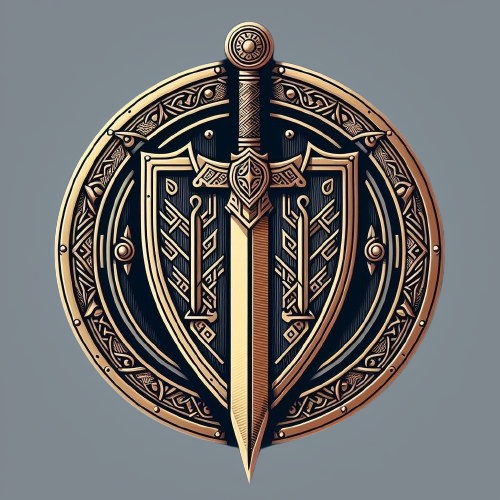
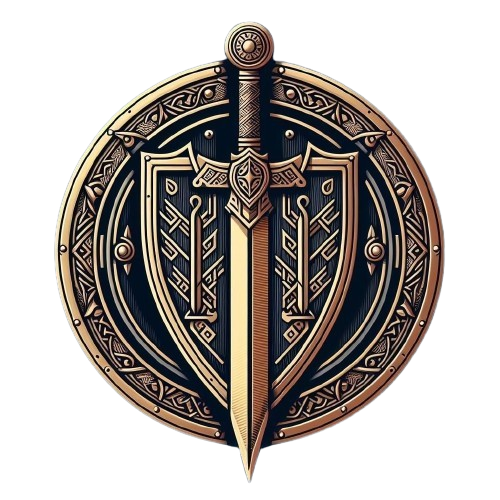
Deploy v0.11.8 Nations updated (links added)

diff --git a/app/nations/page.tsx b/app/nations/page.tsx
@@ -32,42 +32,42 @@ const nations: Nation[] = [
     slug: "alakasham", name: "Alakasham", type: "Sultanat", population: "55 000 habitants",
     description: "Ce royaume a été bâti sur l'ancien désert de Saltir. Connu pour ses chevaux, ce peuple de mercenaires a connu plusieurs revirements politiques au sein de la famille dirigeante. L'actuelle sultane est la fille illégitime du fondateur. Elle purgea le royaume du système patriarcal que son défunt père et demi-frère avaient mis en place. Aujourd'hui, tout y tourne autour de l'argent et du commerce équestre.",
     character: "Commercial · Matriarcal · Aride", accent: "#FFB84A", glow: "rgba(255,184,74,0.12)",
-    nationHref: "#", leaderHref: "#", status: "active",
+    nationHref: "https://sites.google.com/view/alakasham/", leaderHref: "https://docs.google.com/document/d/19HrZMEEb9E153YB_SI8WC19095Sqrl0yxAMVS0oNYFM/edit?usp=sharing", status: "active",
     army: { name: "Garde du Sable", total: "~4 000 soldats", description: "Une armée de mercenaires et de cavaliers d'élite, recrutés au plus offrant. La loyauté se paie en or.", units: [{ name: "Cavaliers du Désert", count: "1 200", role: "Cavalerie légère, raids et éclaireurs" }, { name: "Mercenaires de la Lame", count: "2 000", role: "Infanterie lourde contractuelle" }, { name: "Arbalétriers de Sable", count: "800", role: "Soutien à distance et défense des caravanes" }] },
   },
   {
     slug: "arcabios", name: "Arcabios", type: "Royaume épéiste", population: "50 000 habitants",
     description: "Fondé par un maître épéiste, ce royaume fut bâti sur une partie des anciennes terres de Toundra et de sa capitale, Draguiroux. Elle fut entièrement reconstruite après la guerre. Il y fait bon vivre tant que vous n'êtes pas originaire d'Hokkaido. Arcabios est connu pour sa bibliothèque et son académie des Épéistes. Les lois de la nation sont réparties en 3 codes qui dictent tous les faits et gestes du royaume. Le monarque et ses sept conseillers veillent à ce que les plaines de la contrée soient exemptes de bandits et pillards. Cela nuirait au tourisme magique qui vient pour les trésors de sa bibliothèque.",
     character: "Érudit · Guerrier · Ordonné", accent: "#912525", glow: "rgba(176,173,173,0.12)",
-    nationHref: "#", leaderHref: "#", status: "active",
+    nationHref: "https://sites.google.com/view/arcabios", leaderHref: "https://docs.google.com/document/d/1ut5DmJEXCzPWRu_xrZBEjZemWnKsVHqEeqqQXjIQf2A/edit?usp=sharing", status: "active",
     army: { name: "Ordre de la Lame", total: "~5 500 soldats", description: "Chaque soldat est aussi lettré que guerrier. L'académie d'Arcabios forme les meilleurs duellistes du continent.", units: [{ name: "Maîtres Épéistes", count: "800", role: "Élite de l'Académie, duellistes hors pair" }, { name: "Gardiens de la Bibliothèque", count: "300", role: "Protection des archives et des artefacts" }, { name: "Milice Ordonnée", count: "4 400", role: "Infanterie standard disciplinée" }] },
   },
   {
     slug: "asdorath", name: "Asdorath", type: "Empire", population: "100 000 habitants",
     description: "Cette ancienne grande nation a préféré signer l'armistice lorsque son empereur fut exécuté par la main du roi d'Hokkaido. Maintenant que la guerre de 2 ans est finie, la hargne de son impératrice fait que sa nation tient encore debout. Avec les années, les problèmes internes ont tendance à se calmer, mais Asdorath cherche des alliés de toutes parts car non seulement elle craint Dakurodo, mais elle aimerait surtout anéantir Hokkaido une bonne fois pour toutes.",
     character: "Puissant · Militaire · Politique", accent: "#E8793A", glow: "rgba(232,121,58,0.12)",
-    nationHref: "#", leaderHref: "#", status: "active",
+    nationHref: "https://sites.google.com/view/asdorath", leaderHref: "https://docs.google.com/document/d/1kdkop-kXn6oYBG_bNe_YcelErcqvYVBrBH6mdJjHvzc/edit?usp=sharing", status: "active",
     army: { name: "Légions de l'Empire", total: "~18 000 soldats", description: "La force militaire la plus imposante d'Izaria. Disciplinée, hiérarchisée, redoutée.", units: [{ name: "Légionnaires de Narset", count: "8 000", role: "Infanterie lourde d'élite impériale" }, { name: "Chevaliers du Trône", count: "2 000", role: "Cavalerie blindée, garde rapprochée" }, { name: "Arquebusiers Impériaux", count: "4 000", role: "Artillerie et soutien à distance" }, { name: "Mages de Guerre", count: "500", role: "Appui magique de combat" }, { name: "Corps du Renseignement", count: "3 500", role: "Espionnage, infiltration, contre-espionnage" }] },
   },
   {
     slug: "dakurodo", name: "Dakurodo", type: "Royaume sombre", population: "70 000 habitants",
     description: "Dakurodo est une nation atypique. Grand royaume du nord, on dit que la reine de Dakurodo est en train de soulever une immense armée. Ce royaume n'est allié de personne, et pourquoi le serait-il quand on est le plus lugubre, où vivent les pires démons et nécromanciens. Ici, le meurtre est autorisé tant qu'il respecte le modèle féodal ou que c'est un sacrifice d'étranger. Les anges n'ont bien entendu pas leur place ici.",
     character: "Sombre · Interdit · Menaçant", accent: "#221212", glow: "rgba(255,74,74,0.12)",
-    nationHref: "#", leaderHref: "#", status: "active",
+    nationHref: "https://sites.google.com/view/dakurodo", leaderHref: "https://docs.google.com/document/d/1BeGObSbOPdahvPtItovRzE5M0swnEmARqpFLIPH1usY/edit?usp=sharing", status: "active",
     army: { name: "Armée des Morts", total: "Indéterminé", description: "Une horde de morts-vivants et de créatures démoniaques, augmentée en permanence. Elle ne connaît ni fatigue ni peur.", units: [{ name: "Nécromanciens de Cour", count: "120", role: "Commandement et invocation de masse" }, { name: "Légion Squelettique", count: "∞", role: "Chair de canon animée, masse infiniment renouvelable" }, { name: "Démons Contractuels", count: "Inconnu", role: "Entités liées par pacte, force de frappe dévastatrice" }, { name: "Gardes Vivants", count: "2 000", role: "Humains corrompus, infanterie de choc" }] },
   },
   {
     slug: "hokkaido", name: "Hokkaido", type: "Royaume samourai", population: "30 000 habitants",
     description: "Entre petit fief du royaume de Toundra, tanière mafieuse et grand vainqueur de la guerre de 2 ans, la croissance de cette île de l'ouest fut fulgurante, mais sa chute a été tout autant spectaculaire. Les membres de l'ancienne famille royale se sont fait décimer. Entre duels à mort et assassinats, ils ont tous connu un triste sort. Une seule d'entre eux est portée disparue. Un conclave des 5 familles a été alors mis en place. Cette organisation élit les nouveaux rois d'Hokkaido, du moins en théorie, car la reine actuelle en a décidé autrement.",
     character: "Samourai · Mafieux · Menaçant", accent: "#B44AFF", glow: "rgba(180,74,255,0.12)",
-    nationHref: "#", leaderHref: "#", status: "active",
+    nationHref: "https://sites.google.com/view/izaria-hokkaido/", leaderHref: "https://docs.google.com/document/d/1A61ynYOiSrqbm_JmyghaHKc1M3VPRp3PZ_dVZnIBarE/edit?usp=sharing", status: "active",
     army: { name: "Clan des Ombres Pourpres", total: "~3 200 soldats", description: "Une armée double : samourais honorables en façade, réseau de yakuzas dans l'ombre. La distinction est souvent floue.", units: [{ name: "Samourais de Rang", count: "600", role: "Élite martiale, code de l'honneur strict" }, { name: "Ninja du Clan", count: "400", role: "Assassins, espions, exécuteurs" }, { name: "Milice Insulaire", count: "2 200", role: "Défense côtière et garnison" }] },
   },
   {
     slug: "ipulos-tacderen", name: "Ipulos Tacderen", type: "Royaume du fer", population: "20 000 habitants",
     description: "La nation du fer, lieu où tous les rêves, tant qu'ils contiennent des métaux, se voient réalisés. Gardant quelques séquelles de la guerre dont elle a été victime, son symbole, l'éclipse, représente l'émergence de cet empire, à l'instar du soleil qui se dégage de l'ombre que lui fait la lune. Mais d'autres y voient le regard impitoyable de la famille souveraine, les Mélisande, qui surveillent d'un œil avide leur trésor. La tour, refuge des défunts de la Grande guerre, surplombe et veille sur la ville et le moindre de ses habitants. Ici, il n'y a pas de loi écrite, les habitants ont toujours raison, les étrangers se doivent de payer un impôt pour obtenir le droit de passage. Les Tacderiens sont connus pour leur maîtrise du fer et sont fascinés par le pouvoir qu'exerce l'électricité sur ce dernier. Ils s'en servent même pour le travailler; les armes et armures forgées par la foudre sont un savoir qu'eux seuls maîtrisent et qui vaut, par la même occasion, leur réputation.",
     character: "Voleuse · Forgeron · Menaçant", accent: "#a0a09e", glow: "rgba(160,160,158,0.12)",
-    nationHref: "#", leaderHref: "#", status: "active",
+    nationHref: "https://sites.google.com/view/ipulos-tacderen", leaderHref: "https://docs.google.com/document/d/1qKsYRJ4aaTtWod-X0MNmi82C0bQs7fPFa39d5ye_zYs/edit?usp=sharing", status: "active",
     army: { name: "Forge-Guerre", total: "~2 800 soldats", description: "Les meilleurs équipements du monde au service d'une armée réduite mais redoutablement armée.", units: [{ name: "Forgerons-Soldats", count: "500", role: "Artisans de guerre, réparation et fabrication en campagne" }, { name: "Chevaliers de Fer", count: "800", role: "Cavalerie lourde en armure intégrale forgée sur mesure" }, { name: "Pillards Mécanisés", count: "1 500", role: "Infanterie équipée d'armes expérimentales" }] },
   },
   {
@@ -81,21 +81,21 @@ const nations: Nation[] = [
     slug: "solarsen", name: "Solarsen", type: "Royaume maritime", population: "42 000 habitants",
     description: "Solarsen est un royaume fraîchement indépendant, ancienne province d'Asdorath devenue puissance commerciale. C'est une nation en plein essor, dont les ravages de la guerre marquent encore les terres. Solarsen reste un pays ouvert aux marchandises et autres commerces en tout genre, malgré une loi stricte pour les étrangers.",
     character: "Maritime · Magique · Indépendant", accent: "#4AC8FF", glow: "rgba(74,200,255,0.12)",
-    nationHref: "#", leaderHref: "#", status: "active",
+    nationHref: "https://docs.google.com/document/d/1IjO1xD929jhINtEOATHJrkGynkrRtNY4FITeMGdcSDU/edit?usp=sharing", leaderHref: "https://docs.google.com/document/d/1Y8K4WfTZ6XsIFpr8rM6olk74vYXJPplwAfBJefgGbZo/edit?usp=sharing", status: "active",
     army: { name: "Flotte de l'Indépendance", total: "~5 000 soldats + 40 navires", description: "La puissance de Solarsen est navale avant tout. Sur terre, elle est défensive. Sur mer, elle est souveraine.", units: [{ name: "Marines d'Élite", count: "1 200", role: "Infanterie de bord, abordage et défense portuaire" }, { name: "Mages des Marées", count: "300", role: "Contrôle magique des courants et tempêtes" }, { name: "Flotte Marchande Armée", count: "3 500", role: "Marins combattants réquisitionnables" }] },
   },
   {
     slug: "tengoku", name: "Tengoku", type: "Îles flottantes", population: "75 000 habitants",
     description: "Tengoku est une nation à part : en effet, elle est composée d'îles volantes et possède une évolution fortement avancée. Ses habitants s'intéressent particulièrement à l'espace au détriment de leur propre planète. Étant isolée du reste du monde, cette nation est relativement neutre, sauf avec Arcabios et Asdorath. Les trois royaumes entretiennent d'étroites relations. En effet, la grande bibliothèque d'Arcabios abrite les runes fondatrices de Tengoku, et ce sont des explorateurs d'Asdorath qui ont découvert Tengoku.",
     character: "Mystique · Aérien · Isolé", accent: "#9090a8", glow: "rgba(144,144,168,0.12)",
-    nationHref: "#", leaderHref: "#", status: "active",
+    nationHref: "https://sites.google.com/view/izaria-tengoku/", leaderHref: "https://docs.google.com/document/d/1yqLraIlh2RcSjQFxN5xD8fJ-sJHpzBFj6zrmFmmwTEQ/edit?usp=sharing", status: "active",
     army: { name: "Gardiens du Ciel", total: "~4 500 soldats", description: "Une armée qui combat dans les airs. Inaccessible à qui ne maîtrise pas la magie du vent.", units: [{ name: "Vents-Lames", count: "800", role: "Guerriers volants, maîtres de la magie du vent" }, { name: "Archers Célestes", count: "1 200", role: "Tir de précision depuis les hauteurs" }, { name: "Gardiens des Îles", count: "2 500", role: "Défense statique des plateformes flottantes" }] },
   },
   {
     slug: "thogdur", name: "Thogdur", type: "Royaume orc", population: "80 000 habitants",
     description: "Bien que plutôt jeune et parti de zéro sur les terres de Saltir, le Royaume de Thogdur est devenu une puissance importante sur le plan commercial, militaire et diplomatique. Dirigé par le gobelin Thogdur d'une main de fer, le Royaume de Thogdur est l'un des plus fermés, interdit aux humains ou encore aux elfes ; l'ordre et l'autorité y règnent plus que tout. Esclavagisme, pillages ou encore massacres massifs, telles sont les pratiques du Roi Thogdur, faisant de lui le Gobelin le plus respecté par tous les orcs qui composent le pays.",
     character: "Fermé · Autoritaire · Esclavagiste", accent: "#8ab870", glow: "rgba(138,184,112,0.12)",
-    nationHref: "#", leaderHref: "#", status: "active",
+    nationHref: "https://sites.google.com/view/thogdur", leaderHref: "https://docs.google.com/document/d/1V8LBLK2F3RK4zaxF3K820w5MhdG4q3Je6vnHFO8DU2Q/edit?usp=sharing", status: "active",
     army: { name: "Horde de Thogdur", total: "~22 000 soldats", description: "La plus grande armée brute d'Izaria. Peu sophistiquée, mais compensée par des effectifs colossaux et une férocité sans limite.", units: [{ name: "Berserkers Orcs", count: "8 000", role: "Infanterie de choc, charge frontale dévastatrice" }, { name: "Esclaves de Guerre", count: "10 000", role: "Chair de canon, mineurs et porteurs en campagne" }, { name: "Shamans de Combat", count: "500", role: "Soutien magique tribal, malédictions et soins" }, { name: "Garde Personnelle de Thogdur", count: "3 500", role: "Élite gobeline, fanatiquement loyale" }] },
   },
   // ── Inconnues ─────────────────────────────────────────────────────────────────